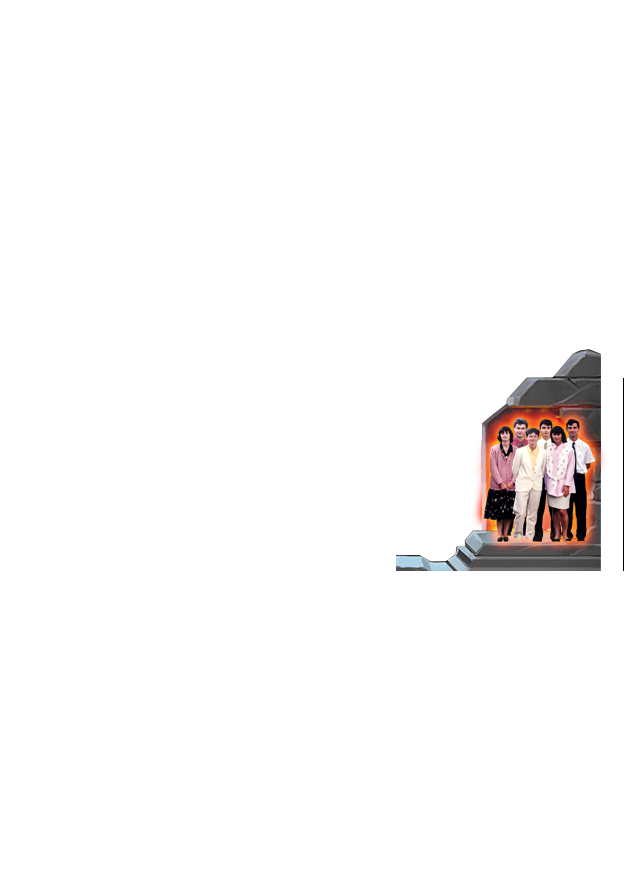
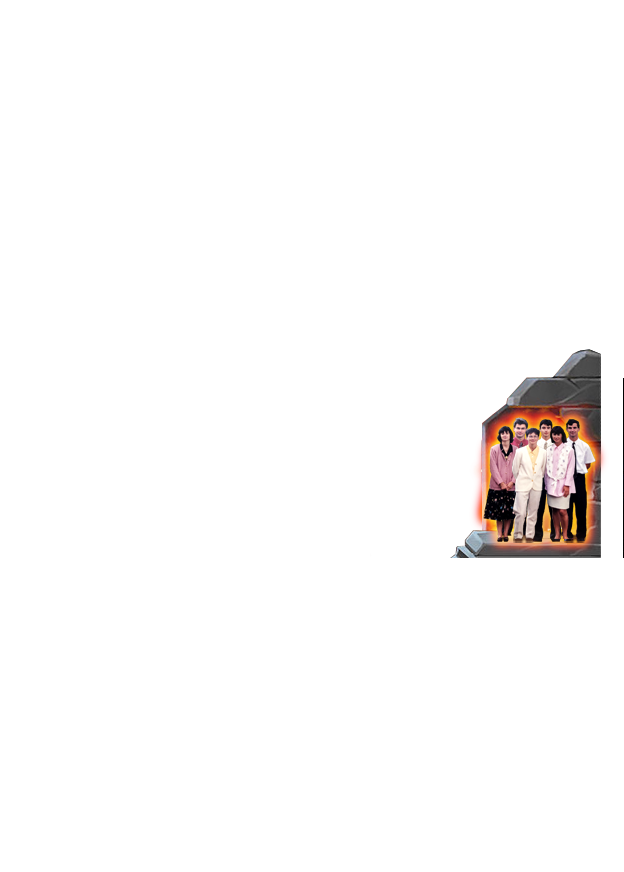
Ajout danger !

Changed region(s): [[0.6394, 0.4644, 0.9744, 0.6812]]

diff --git a/utils_app.py b/utils_app.py
@@ -181,7 +181,7 @@ def add_left_items(card: Image.Image, draw: ImageDraw.ImageDraw):
 
             w, h = draw.textsize(text_skill, font=FONT_SKILL)
             draw.text(
-                (72 - w / 2, h / 2 + 120),
+                (70 - w / 2, h / 2 + 120),
                 text=text_skill,
                 fill=(0, 0, 0, 255),
                 font=FONT_SKILL,
@@ -228,7 +228,9 @@ def add_text(draw: ImageDraw.ImageDraw):
 
 
 def add_subtitle(draw: ImageDraw.ImageDraw):
-    text = st.sidebar.text_area("Texte secondaire de la carte")
+    text = st.sidebar.text_area(
+        "Texte secondaire de la carte", value=" « Citation facultative »"
+    )
     _, h = draw.textsize(text, font=FONT_CARD_LEGEND)
     draw.text(
         (55, HEIGHT - h - 60),
@@ -274,6 +276,24 @@ def add_horde(card: Image.Image, appear):
             card.paste(horde_image, (0, 0), horde_image)
 
 
+def add_danger(card: Image.Image, draw: ImageDraw.ImageDraw, appear):
+    if not appear:
+        danger = st.sidebar.checkbox("Danger", value=False)
+        if danger:
+            danger_image = Image.open("docs/images/danger.png")
+            card.paste(danger_image, (0, 0), danger_image)
+
+            text = st.sidebar.text_area("Texte danger")
+            _, h = draw.textsize(text, font=FONT_CARD_APPEAR)
+            draw.text(
+                (185, 594 - h / 2),
+                text=text,
+                fill="white",
+                font=FONT_CARD_APPEAR,
+                spacing=1,
+            )
+
+
 def make_card(illustration):
     card = BASECARD.copy()
     draw = ImageDraw.Draw(card)
@@ -294,8 +314,9 @@ def make_card(illustration):
     add_left_items(card, draw)
 
     appear = add_appear(card, draw)
+    add_danger(card, draw, appear)
 
-    add_clock(card, appear)
+    # add_clock(card, appear)
     add_horde(card, appear)
 
     add_text(draw)
